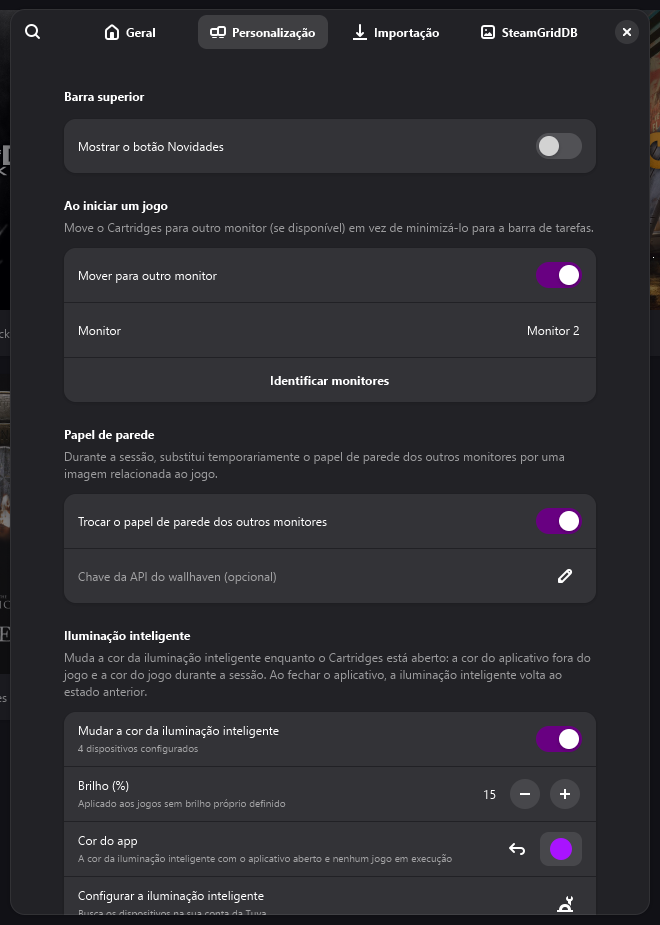
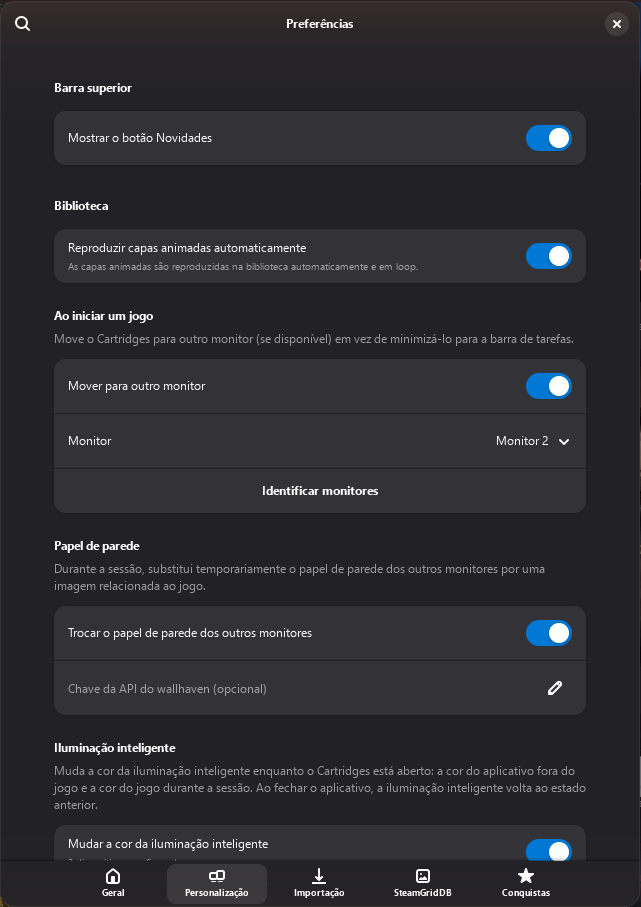
README: conquistas, iluminação inteligente (tela, calibração, brilho), tarefas em andamento e prints da interface atual

diff --git a/README.md b/README.md
@@ -9,10 +9,10 @@
 Este é um fork da versão para Windows do [Cartridges](https://codeberg.org/kramo/cartridges), o launcher
 criado por kramo para o GNOME. O projeto original (abandonado) reúne jogos de vários launchers do Linux; esta
 versão reúne os jogos de um PC com Windows a partir de uma pasta de atalhos e acrescenta novas funções como:
-acompanhamento de tempo de jogo por sessão, registro pessoal de cada jogo,
-metadados da Steam e do HowLongToBeat, navegação por controle Xbox, papel de parede,
-busca por capas e logos da Steam e controle de iluminação inteligente
-que acompanham o jogo aberto, além de backup completo e atualização automática.
+acompanhamento de tempo de jogo por sessão, conquistas das lojas Steam, Epic, Ubisoft e Xbox,
+registro pessoal de cada jogo, metadados da Steam e do HowLongToBeat, navegação por controle Xbox,
+papel de parede, busca por capas e logos e controle de iluminação inteligente que acompanham o
+jogo aberto, além de backup completo, backup dos saves e atualização automática.
 
 A interface é inteiramente em português do Brasil.
 
@@ -37,6 +37,11 @@ A interface é inteiramente em português do Brasil.
 - Filtros por gênero, ano de lançamento e status, combináveis entre si e com a busca.
 - Grade com número de colunas acompanhando a largura da janela, e capas que deslizam até a nova
   posição quando a grade se reorganiza.
+- Capas animadas reproduzidas ao passar o mouse ou, se preferir, o tempo todo na biblioteca.
+- **Tarefas em andamento**: importações, atualizações de metadados e outras tarefas em segundo
+  plano aparecem num botão no canto da biblioteca, que abre uma janela com o progresso de cada
+  uma. A janela pode ficar aberta ao lado do aplicativo, e o trabalho continua mesmo com a janela
+  principal fechada.
 - Navegação suave e agradável.
 
 ### Metadados e imagens
@@ -57,6 +62,7 @@ A interface é inteiramente em português do Brasil.
 ### Tela de detalhes
 
 - Capa, logo, fundo desfocado, datas, tempo de jogo e tamanho no disco.
+- Os tempos do HowLongToBeat e o andamento das conquistas, com as últimas desbloqueadas.
 - Botão para abrir a pasta de instalação do jogo, quando ela pode ser determinada.
 
 ![Tela de detalhes de um jogo](data/screenshots/detalhes.jpg)
@@ -73,6 +79,24 @@ A interface é inteiramente em português do Brasil.
   somente pelo nome.
 
 ![Jogos Zerados](data/screenshots/zerados.jpg)
+
+### Conquistas
+
+- As conquistas desbloqueadas são acompanhadas enquanto você joga, nas lojas Steam, Epic Games,
+  Ubisoft Connect e Xbox (incluindo o Game Pass), e em alguns jogos 🏴☠.
+- Para o Xbox e a Epic, basta entrar na conta na aba Conquistas das Preferências. Para os jogos
+  🏴☠, uma chave da Steam Web API traz o nome e a descrição das conquistas em português.
+- A janela de conquistas de cada jogo mostra o progresso, as desbloqueadas (com a data e a
+  porcentagem de jogadores que também a têm), as bloqueadas e as ocultas.
+- Ao abrir o aplicativo, um aviso informa quantas conquistas foram desbloqueadas desde a última
+  vez.
+- **Durante o jogo**: quando a loja não mostra o próprio aviso, o Cartridges mostra um no canto da
+  tela, com som (volume ajustável) e posição à escolha. A iluminação inteligente pisca na cor e no
+  estilo escolhidos. Várias conquistas de uma vez viram um único som e um único pulso.
+
+![Conquistas de um jogo](data/screenshots/conquistas.jpg)
+
+<p align="center"><img src="data/screenshots/conquistas-preferencias.png" width="480" alt="Opções das conquistas durante o jogo"></p>
 
 ### Tempo de jogo e sessões
 
@@ -92,18 +116,41 @@ A interface é inteiramente em português do Brasil.
 
 Todos estes recursos ficam na aba Personalização das Preferências e vêm desativados por padrão.
 
-- **Outro monitor**: ao iniciar um jogo, a janela pode ir maximizada para outro monitor, com um
-  relógio contando o tempo da sessão. Ao final, ela volta ao monitor e ao tamanho de antes.
+- **Outro monitor**: ao iniciar um jogo, a janela pode ir maximizada para o monitor escolhido, com
+  o logo do jogo em destaque, um relógio contando o tempo da sessão e as conquistas do jogo (a
+  descrição de cada uma aparece ao passar o mouse). Ao final, ela volta ao monitor e ao tamanho de
+  antes.
 - **Papel de parede**: os monitores além do principal podem exibir a arte do jogo, buscada no
   [wallhaven](https://wallhaven.cc) ou escolhida manualmente, com ajuste de enquadramento para
   monitores em retrato e em paisagem. Ao final da sessão, cada monitor volta ao papel de parede
   que tinha.
-- **Iluminação inteligente Tuya**: a iluminação inteligente fica na cor do aplicativo enquanto ele
-  está aberto e passa para a cor do jogo durante a sessão. A cor é extraída da capa ou escolhida
-  manualmente, com brilho próprio. As trocas acontecem em degradê, e ao fechar o aplicativo a
-  iluminação inteligente volta ao estado anterior.
-
 <p align="center"><img src="data/screenshots/personalizacao.png" width="480" alt="Aba Personalização das Preferências"></p>
+
+### Iluminação inteligente
+
+Fitas de LED e lâmpadas inteligentes da Tuya, configuradas uma vez por um assistente que busca os
+dispositivos na sua conta; depois disso, o aplicativo conversa com eles direto pela rede de casa.
+
+- A iluminação fica na cor do aplicativo enquanto ele está aberto e passa para a cor do jogo
+  durante a sessão. Ao fechar o aplicativo, ela volta exatamente ao estado anterior.
+- A cor de cada jogo é automática (extraída da capa) ou escolhida manualmente, e o brilho de cada
+  jogo pode ser ajustado sem trocar a cor automática.
+- **Cor acompanha a tela do jogo** (experimento): durante a sessão, a cor acompanha devagar a cor
+  predominante do jogo na tela, com cores vivas e brilho menor nas cenas escuras. Na edição do
+  jogo, a cor aparece como "Automático".
+- **Brilho máximo por dispositivo**, aplicado proporcionalmente sobre o brilho geral e o de cada
+  jogo.
+- **Calibrar as cores**: um assistente, no estilo da calibração de HDR do Windows, ajusta cada
+  dispositivo para reproduzir as cores como a tela, em seis cores de referência e no branco. Dá
+  para calibrar um dispositivo por vez ou todos juntos, cada um com os seus controles, e testar o
+  resultado antes de salvar.
+- As trocas de cor acontecem em degradê. Um dispositivo que para de responder durante o jogo é
+  procurado de novo sozinho, e um aviso no fim da sessão informa se ele ficou muito tempo sem
+  responder.
+
+<p align="center"><img src="data/screenshots/iluminacao.png" width="480" alt="Opções da iluminação inteligente"></p>
+
+<p align="center"><img src="data/screenshots/calibracao.png" width="420" alt="Assistente de calibração das cores"></p>
 
 ### Controle Xbox
 
